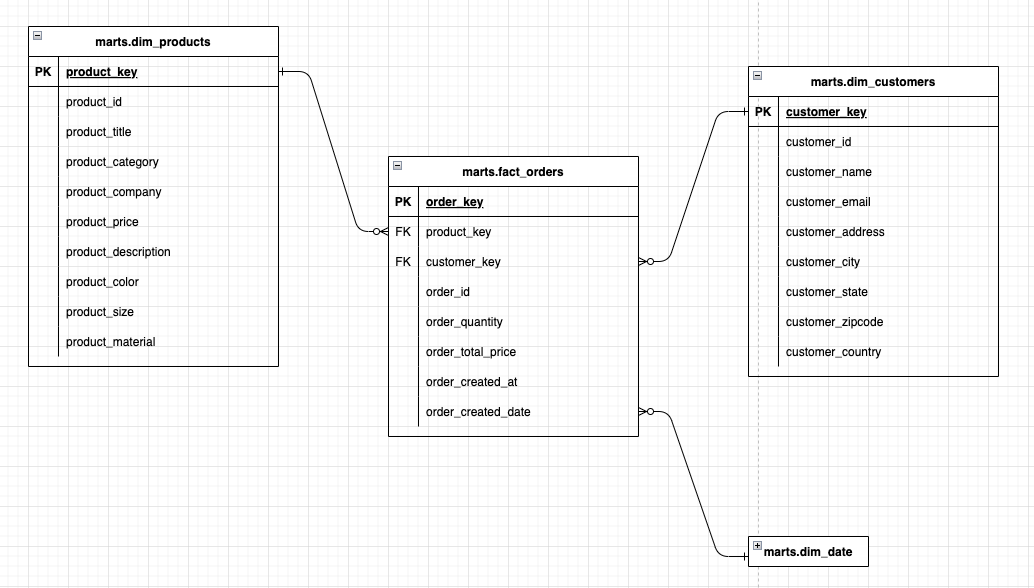
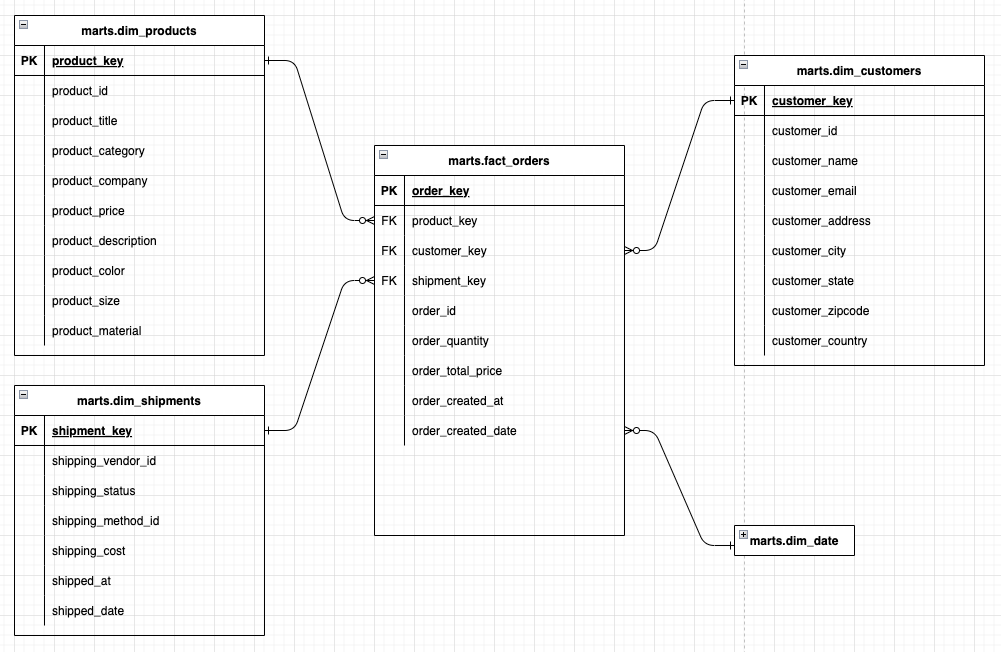
Create dbt_shipments model and link to report_orders table

diff --git a/README.md b/README.md
@@ -16,11 +16,12 @@ It demonstrates designing streaming data pipelines and an analytical data wareho
 
 Business process modeling
 - We model the e-commerce orders creation business process to ingest, process and visualize real-time orders and total revenue over time, segmented by
-  - top products and categories
-  - top customers
+  - products and categories
+  - customers
 
 What users would find your dataset useful?
   - for the Finance and Operations departments, provide a sales report of the orders over time. Provide the ability to slice by product name, product category and product supplier.
+  - for the Operations department, provide a report of the shipping delay from order creation to shipping completion.
   - for the Marketing department, provide a report of the customers who generated the most revenue to create marketing campaigns and loyalty programmes.
   - for the Analytics department, provide raw and modelled data to build machine learning models to provide recommendations to customers to maximise total lifetime value.
 
@@ -32,7 +33,7 @@ What users would find your dataset useful?
 
 - [Sign up](https://confluent.cloud/signup) for a free Confluent trial
 - Create a Kafka cluster in Confluent Cloud and generate an API key
-- Create topics `products`, `orders`, `customers` and `shops`
+- Create topics `products`, `orders`, `customers`, `shipments`, and `shops`
 - Clone `.env.example` into `.env` and fill in the Kafka cluster credentials
   ```bash
   source .env
@@ -45,7 +46,7 @@ What users would find your dataset useful?
   docker pull materialize/datagen
   ```
 
-- Produce the bootstrapped `products`, `customers` and `orders` records
+- Produce the bootstrapped `products` and `customers` records (100 products and 50 customers)
   ```bash
   docker run \
     --rm -it \
